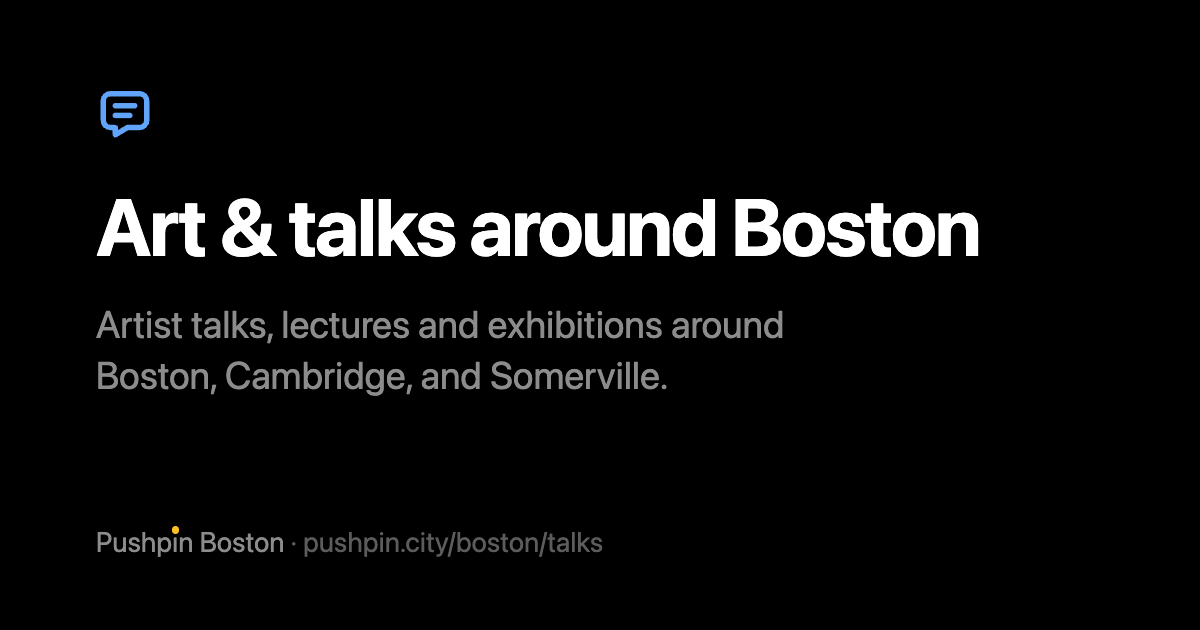
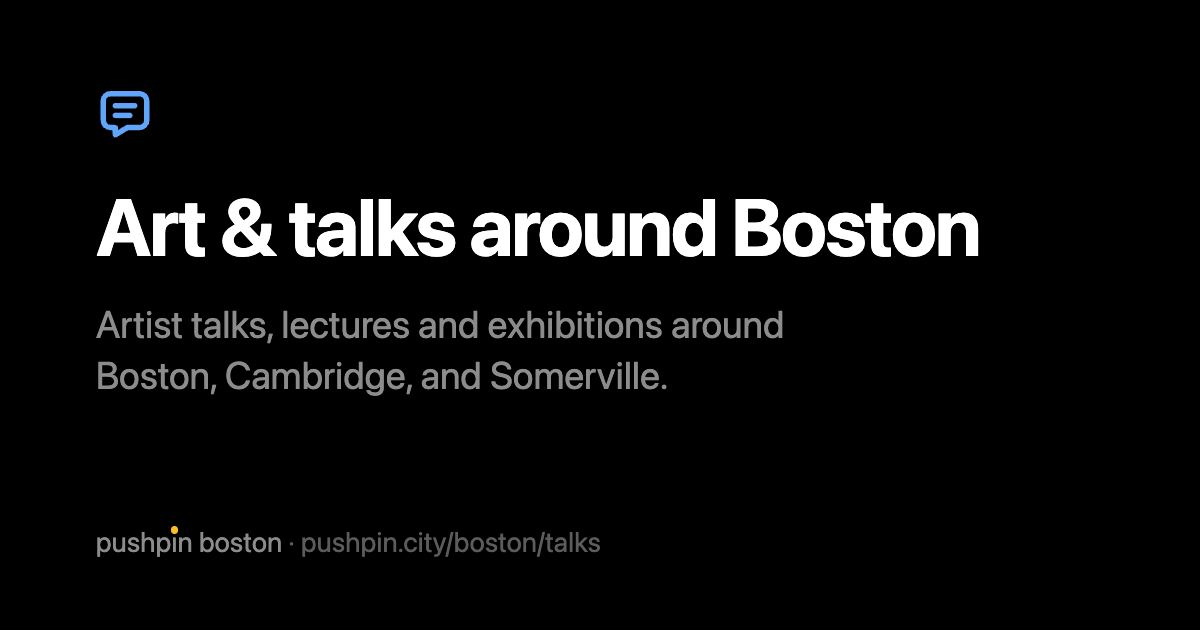
Set the name in lowercase, and the city beside it on the share cards
The wordmark is "pushpin": friendlier, a local guide's rather than a
company's, and among its short letters the amber dot is the highest
point of the word but the h. A screen reader still reads it as
"Pushpin", and running text writes it so. On the share cards the city is
lowercase beside it, "pushpin boston", so the two read as one mark; the
cards are made again.

Changed region(s): [[0.0617, 0.8444, 0.5242, 0.8746]]

diff --git a/events/build.py b/events/build.py
@@ -2471,10 +2471,11 @@ EVENT_VIEW = f"""<dialog class="event" aria-labelledby="event-title">
 </div>
 </dialog>
 """
-# Pushpin's name, as its mark: the word, with the dot of its i a pin's head, a little bigger than a dot and in
-# film's amber. A dotless i under a dot of its own, so the dot can be any size and color; read by a screen
-# reader as the name it is, not the letters it's made of. Its favicon is three dots, the three kinds' colors.
-WORDMARK = ('<span class="wordmark" role="img" aria-label="Pushpin">Pushp<span class="i">ı<span class="tittle">'
+# Pushpin's name, as its mark: the word in lowercase, with the dot of its i a pin's head, a little bigger than a
+# dot and in film's amber — among the short letters, the highest point of the word but the h. A dotless i under a
+# dot of its own, so the dot can be any size and color; read by a screen reader as the name it is, not the
+# letters it's made of. In running text it's "Pushpin", as names are. Its favicon is three dots, the kinds' colors.
+WORDMARK = ('<span class="wordmark" role="img" aria-label="Pushpin">pushp<span class="i">ı<span class="tittle">'
             '</span></span>n</span>')
 
 

diff --git a/events/share_cards.py b/events/share_cards.py
@@ -47,11 +47,12 @@ def card(heading, line, kinds, path):
         f'stroke-linecap="round" stroke-linejoin="round">{build.ICON_DRAWINGS[kind]}</g></svg>'
         for kind in kinds
     )
-    # The site's name as it is in the header, its i's dot a pin's head: a home card's heading, the others' last line.
+    # The site's name as it is in the header, its i's dot a pin's head, and its city with it in lowercase, so the
+    # two read as one mark ("pushpin boston"): a home card's heading, the others' last line.
     home = path is None or heading == build.PUBLIC_NAME
     # A longer heading a little smaller, to keep it on one line.
     size = 92 if len(heading) <= 22 else 80 if len(heading) <= 25 else 70
-    named = lambda name: build.WORDMARK + html.escape(name.removeprefix("Pushpin"))  # noqa: E731
+    named = lambda name: build.WORDMARK + html.escape(name.removeprefix("Pushpin").lower())  # noqa: E731
     title = named(heading) if home else html.escape(heading)
     site = "" if home else f"<span>{named(build.PUBLIC_NAME)}</span> · "
     base = build.PUBLIC_SITE if path is None else build.PUBLIC_URL

diff --git a/README.md b/README.md
@@ -84,7 +84,7 @@ The events build also writes the same listings for anyone, as **Pushpin Boston**
 - Its visits are counted with GoatCounter; see [Visitor counts](#visitor-counts-goatcounter).
 - Calendars to subscribe to, which each build writes to `/boston/calendar/`: one for each kind (`music.ics`, `film.ics`, `talks.ics`) and one for each venue (`the-sinclair.ics`), of what's coming up (`calendar_feeds`). Each listing is one event, at its first time for two hours or all day without one, its other times in its notes, with an id that stays the same from build to build so a calendar app updates it rather than adding it again. The About page's Calendars section links each kind's for Apple Calendar (`webcal://`) and Google Calendar; the footer links there too. The venues' own feeds are still written, for anyone already subscribed, but no longer linked (`webcal://` does nothing in most desktop browsers).
 - A listing's view has a Copy link button, rather than the device's share sheet: it copies the listing's own link, and says "Link copied" with a check for a moment. That link is the listing's own small page, `/boston/e/<its id>/` (`event_pages`, about 900 a build), whose preview in iMessage, Slack and the like is the event's: a title saying what it is, where and when (`share_title`: "Showtimes for Akira (4K Restoration) at Coolidge Corner · Tue, Sep 15", "Telescreens at The Rockwell · Fri, Sep 18, 7pm"; iMessage shows only the title and picture), a line with the venue, day, times, price (or Sold out) and ages, and its own picture, or its kind's card when it has none. Apps that show previews don't run scripts, so the home page's `?event=` address would preview as the home page. Someone who opens it goes straight on to the listing's view; once it's passed, its page is gone, and the site's 404 page sends the link on to its view, which opens the next of its series. The pages aren't listed by search engines. Copied links are counted in GoatCounter as `share/<venue>`, as shares were.
-- Just announced is marked with Tabler's "sparkles"; the site's icon is three dots in the three kinds' colors (music's violet, film's amber, art and talks' blue), in `events/pushpin/`: `favicon.svg`, with no background, which reads on a light tab and a dark one alike; and `apple-touch-icon.png` and `favicon.ico`, the dots on black, made by `share_cards.py`. In the header the name is the mark (`WORDMARK`): the word, with the dot of its i a pin's head, a little bigger than a dot and in film's amber; a screen reader reads it as "Pushpin". The share cards set the name the same way.
+- Just announced is marked with Tabler's "sparkles"; the site's icon is three dots in the three kinds' colors (music's violet, film's amber, art and talks' blue), in `events/pushpin/`: `favicon.svg`, with no background, which reads on a light tab and a dark one alike; and `apple-touch-icon.png` and `favicon.ico`, the dots on black, made by `share_cards.py`. In the header the name is the mark (`WORDMARK`): the word in lowercase, with the dot of its i a pin's head, a little bigger than a dot and in film's amber; a screen reader reads it as "Pushpin", and running text writes it so. The share cards set the name the same way, with the city in lowercase beside it ("pushpin boston").
 - Shared links show a card (1200×630) in the site's style: for each city, its home page's and one for each kind's page, tonight's and the weekend's, in `events/share/<slug>/`; and pushpin.city's own, in `events/share/site/`. They don't change with the listings, so they're made by hand with Chrome: `python3 -m events.share_cards`, again after adding or renaming a city or rewording a page.
 - A source ending in `public=no` in `events/sources.txt` stays off it, for one that isn't ours to republish.
 - The Contact page's form sends through [FormSubmit](https://formsubmit.co) to the address in `PUBLIC_CONTACT`; its first message asks that address to confirm, and FormSubmit then offers a random alias to use there instead of the address.
